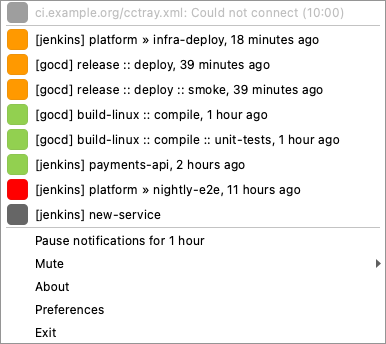
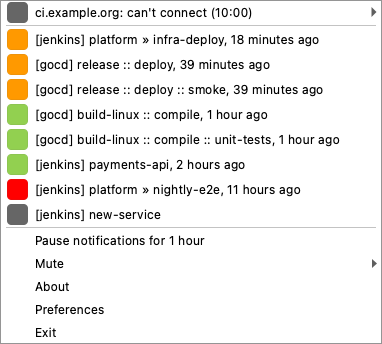
Make server error rows readable and actionable
Error rows are named after the server's prefix or host, show a short phrase
and open a submenu with the full credential-free message, Retry now and Edit
server... (TASK-61).

diff --git a/test/integration/app_menu_test.py b/test/integration/app_menu_test.py
@@ -8,7 +8,7 @@ from PySide6.QtWidgets import QWidget
 from buildnotifylib.adapters.credentials import Keystore
 from buildnotifylib.adapters.settings_store import SettingsStore
 from buildnotifylib.core.model import ServerSnapshot
-from buildnotifylib.core.ports import FetchError
+from buildnotifylib.core.ports import CannotConnect, FetchError
 from buildnotifylib.core.settings import AppSettings, ServerSettings, SortKey
 from buildnotifylib.ui.app_menu import AppMenu
 from buildnotifylib.ui.build_icons import BuildIcons
@@ -449,11 +449,13 @@ def error_menu(qtbot):
 
 
 @pytest.mark.functional
-def test_should_show_a_row_with_the_last_error_and_its_time_for_an_unavailable_server(error_menu):
+def test_should_show_an_enabled_row_with_a_short_error_and_its_time_for_an_unavailable_server(error_menu):
     app_menu = error_menu
     at = datetime.now().astimezone().replace(hour=9, minute=5)
     down = ServerSnapshot(
-        "https://user:hunter2@ci.example.com/cc.xml?token=s3cret", error=FetchError("HTTP 503 Unavailable"), error_at=at
+        "https://user:hunter2@ci.example.com/cc.xml?token=s3cret",
+        error=FetchError("HTTP 503 Unavailable", 503),
+        error_at=at,
     )
     project1 = ProjectBuilder({"name": "Project 1", "lastBuildStatus": "Success", "activity": "Sleeping"}).build()
 
@@ -461,7 +463,7 @@ def test_should_show_a_row_with_the_last_error_and_its_time_for_an_unavailable_s
 
     actions = app_menu.menu.actions()
     assert [a.text() for a in actions] == [
-        "ci.example.com/cc.xml: HTTP 503 Unavailable (09:05)",
+        "ci.example.com: HTTP 503 (09:05)",
         "",
         "Project 1",
         "",
@@ -471,7 +473,16 @@ def test_should_show_a_row_with_the_last_error_and_its_time_for_an_unavailable_s
         "Preferences",
         "Exit",
     ]
-    assert not actions[0].isEnabled()
+    assert actions[0].isEnabled()
+
+
+@pytest.mark.functional
+def test_should_name_an_error_row_after_the_server_prefix(mute_menu):
+    app_menu = mute_menu(ServerSettings(CI, prefix="jenkins"))
+
+    app_menu.update([], [ServerSnapshot(CI, error=CannotConnect("Could not connect to ci"), error_at=NOW)])
+
+    assert app_menu.menu.actions()[0].text().startswith("jenkins: can't connect (")
 
 
 @pytest.mark.functional
@@ -481,17 +492,74 @@ def test_should_date_an_error_row_from_an_earlier_day(error_menu):
 
     app_menu.update([], [ServerSnapshot("http://ci:8080/cc.xml", error=TimeoutError("Timed out"), error_at=at)])
 
-    assert app_menu.menu.actions()[0].text() == "ci:8080/cc.xml: Timed out (2026-01-02 03:04)"
+    assert app_menu.menu.actions()[0].text() == "ci:8080: timed out (2026-01-02 03:04)"
 
 
 @pytest.mark.functional
-def test_should_keep_tracebacks_out_of_the_error_row(error_menu):
+def test_should_keep_tracebacks_out_of_the_error_row_and_its_details(error_menu):
     app_menu = error_menu
     error = RuntimeError('boom\nTraceback (most recent call last):\n  File "x.py", line 1')
 
     app_menu.update([], [ServerSnapshot("http://ci/cc.xml", error=error)])
 
-    assert app_menu.menu.actions()[0].text().startswith("ci/cc.xml: boom (")
+    row = app_menu.menu.actions()[0]
+    assert row.text().startswith("ci: request failed (")
+    assert texts(row.menu())[0] == "boom"
+
+
+@pytest.mark.functional
+def test_should_list_the_full_message_a_hint_and_actions_under_an_error_row(mute_menu):
+    app_menu = mute_menu(ServerSettings(CI))
+    error = FetchError("HTTP 401 for https://user:hunter2@ci/cc.xml?token=s3cret", 401)
+
+    app_menu.update([], [ServerSnapshot(CI, error=error, error_at=NOW)])
+
+    details = app_menu.menu.actions()[0].menu()
+    assert texts(details) == [
+        "HTTP 401 for ci",
+        "Sign-in failed - check the username and token",
+        "",
+        "Retry now",
+        "Edit server...",
+    ]
+    assert not any("hunter2" in text or "s3cret" in text for text in texts(details))
+
+
+@pytest.mark.functional
+def test_should_poll_again_on_retry_now(mute_menu, qtbot):
+    app_menu = mute_menu(ServerSettings(CI))
+    app_menu.update([], [ServerSnapshot(CI, error=CannotConnect("Could not connect to ci"), error_at=NOW)])
+
+    with qtbot.waitSignal(app_menu.reload_data, timeout=1000):
+        action(app_menu.menu.actions()[0].menu(), "Retry now").trigger()
+
+
+@pytest.mark.functional
+def test_should_edit_the_unavailable_server_and_poll_again(mute_menu, qtbot, mocker):
+    app_menu = mute_menu(ServerSettings(CI, prefix="old"), ServerSettings(OTHER))
+    app_menu.update([], [ServerSnapshot(CI, error=CannotConnect("Could not connect to ci"), error_at=NOW)])
+    dialog = mocker.patch("buildnotifylib.ui.app_menu.ServerConfigurationDialog")
+    dialog.return_value.open.return_value = ServerSettings(CI, prefix="new")
+
+    with qtbot.waitSignal(app_menu.reload_data, timeout=1000):
+        action(app_menu.menu.actions()[0].menu(), "Edit server...").trigger()
+
+    edited = dialog.call_args.args[0]
+    assert (edited.url, edited.prefix) == (CI, "old")
+    assert [(s.url, s.prefix) for s in reopened(app_menu).servers] == [(CI, "new"), (OTHER, "")]
+
+
+@pytest.mark.functional
+def test_should_not_let_an_edit_duplicate_another_server(mute_menu, qtbot, mocker):
+    app_menu = mute_menu(ServerSettings(CI), ServerSettings(OTHER))
+    app_menu.update([], [ServerSnapshot(CI, error=CannotConnect("Could not connect to ci"), error_at=NOW)])
+    dialog = mocker.patch("buildnotifylib.ui.app_menu.ServerConfigurationDialog")
+    dialog.return_value.open.return_value = ServerSettings(OTHER)
+
+    with qtbot.assertNotEmitted(app_menu.reload_data):
+        action(app_menu.menu.actions()[0].menu(), "Edit server...").trigger()
+
+    assert [s.url for s in reopened(app_menu).servers] == [CI, OTHER]
 
 
 CI = "http://ci/cc.xml"

diff --git a/buildnotifylib/ui/app_menu.py b/buildnotifylib/ui/app_menu.py
@@ -11,7 +11,7 @@ from PySide6.QtWidgets import QApplication, QMenu, QMessageBox, QWidget
 from buildnotifylib.adapters.settings_store import SettingsStore
 from buildnotifylib.core import humanize
 from buildnotifylib.core.diff import key
-from buildnotifylib.core.errors import server_label, summarize
+from buildnotifylib.core.errors import details, host, phrase, server_label
 from buildnotifylib.core.model import Project, ServerSnapshot
 from buildnotifylib.core.mute import (
     Clock,
@@ -22,6 +22,7 @@ from buildnotifylib.core.mute import (
     system_clock,
     toggle_project,
     toggle_server,
+    with_server,
 )
 from buildnotifylib.core.ports import Connection
 from buildnotifylib.core.settings import AppSettings, ServerSettings, SortKey
@@ -51,6 +52,7 @@ class AppMenu(QtCore.QObject):
         self.projects: list[Project] = []
         self.unavailable: Sequence[ServerSnapshot] = ()
         self.mute_menu: QMenu | None = None
+        self.error_menus: list[QMenu] = []
         self.create_default_menu_items()
 
     def update(self, projects: list[Project], unavailable: Sequence[ServerSnapshot] = ()):
@@ -76,20 +78,35 @@ class AppMenu(QtCore.QObject):
         return True, build_time.timestamp()
 
     def create_error_items(self, servers: Sequence[ServerSnapshot]):
-        icon = self.build_icons.for_status(None)
-        for server in servers:
-            action = self.menu.addAction(icon, self.error_label(server))
-            action.setIconVisibleInMenu(True)
-            action.setEnabled(False)
+        for menu in self.error_menus:
+            menu.deleteLater()
+        self.error_menus = [self.create_error_menu(server) for server in servers]
         if servers:
             self.menu.addSeparator()
 
+    def create_error_menu(self, snapshot: ServerSnapshot) -> QMenu:
+        server = self.configured(snapshot.url)
+        menu = QMenu(self.error_label(snapshot, server), self.menu)
+        menu.setIcon(self.build_icons.for_status(None))
+        for line in details(snapshot.error) if snapshot.error is not None else ["Unavailable"]:
+            menu.addAction(line).setEnabled(False)
+        menu.addSeparator()
+        menu.addAction("Retry now").triggered.connect(self.reload_data)
+        if server is not None:
+            menu.addAction("Edit server...").triggered.connect(partial(self.edit_server_clicked, server))
+        self.menu.addMenu(menu).setIconVisibleInMenu(True)
+        return menu
+
+    def configured(self, url: str) -> ServerSettings | None:
+        return next((server for server in self.store.settings.servers if server.url == url), None)
+
     @staticmethod
-    def error_label(server: ServerSnapshot) -> str:
-        summary = summarize(server.error) if server.error is not None else "Unavailable"
-        at = (server.error_at or datetime.now()).astimezone()
+    def error_label(snapshot: ServerSnapshot, server: ServerSettings | None) -> str:
+        name = (server.prefix if server is not None else "") or host(snapshot.url) or "server"
+        summary = phrase(snapshot.error) if snapshot.error is not None else "unavailable"
+        at = (snapshot.error_at or datetime.now()).astimezone()
         when = at.strftime("%H:%M" if at.date() == datetime.now().astimezone().date() else "%Y-%m-%d %H:%M")
-        return f"{server_label(server.url)}: {summary} ({when})"
+        return f"{name}: {summary} ({when})"
 
     def create_default_menu_items(self):
         if self.store.settings.servers:
@@ -170,16 +187,24 @@ class AppMenu(QtCore.QObject):
         self.add_server_clicked()
 
     def add_server_clicked(self) -> None:
-        server = self.open_server_dialog()
+        server = self.open_server_dialog(None)
         settings = self.store.settings
         if server is None or server.url in [s.url for s in settings.servers]:
             return
         self.change(replace(settings, servers=[*settings.servers, server]))
         self.reload_data.emit()
 
-    def open_server_dialog(self) -> ServerSettings | None:
+    def edit_server_clicked(self, server: ServerSettings) -> None:
+        edited = self.open_server_dialog(server)
+        settings = self.store.settings
+        if edited is None or (edited.url != server.url and self.configured(edited.url) is not None):
+            return
+        self.change(with_server(settings, server.url, lambda _: edited))
+        self.reload_data.emit()
+
+    def open_server_dialog(self, server: ServerSettings | None) -> ServerSettings | None:
         dialog = ServerConfigurationDialog(
-            None,
+            server,
             self.store.settings.timeout_seconds,
             self.connection,
             self.menu,

diff --git a/scripts/screenshots.py b/scripts/screenshots.py
@@ -22,6 +22,7 @@ from buildnotifylib.adapters.http import HttpConnection  # noqa: E402
 from buildnotifylib.core import cctray  # noqa: E402
 from buildnotifylib.core.aggregate import OverallIntegrationStatus  # noqa: E402
 from buildnotifylib.core.model import ServerSnapshot  # noqa: E402
+from buildnotifylib.core.ports import CannotConnect  # noqa: E402
 from buildnotifylib.core.settings import AppSettings, ServerSettings, SourceKind  # noqa: E402
 from buildnotifylib.ui import app_menu  # noqa: E402
 from buildnotifylib.ui.build_icons import TRAY_SIZE, BuildIcons  # noqa: E402
@@ -76,7 +77,7 @@ def snapshot(server: ServerSettings, feed: str) -> ServerSnapshot:
 
 
 def status() -> OverallIntegrationStatus:
-    offline = ServerSnapshot(OFFLINE.url, error=ConnectionError("Could not connect"), error_at=NOW)
+    offline = ServerSnapshot(OFFLINE.url, error=CannotConnect("Could not connect to ci.example.org"), error_at=NOW)
     return OverallIntegrationStatus([snapshot(JENKINS, "jenkins.xml"), snapshot(GOCD, "gocd.xml"), offline])
 
 

diff --git a/test/integration/appui_test.py b/test/integration/appui_test.py
@@ -52,7 +52,7 @@ def test_should_list_unavailable_servers_in_the_menu(qtbot):
 
     widget.update_projects(OverallIntegrationStatus([down, ServerSnapshot("http://up/cc.xml")]))
 
-    assert widget.app_menu.menu.actions()[0].text().startswith("ci/cc.xml: Timed out (")
+    assert widget.app_menu.menu.actions()[0].text().startswith("ci: timed out (")
 
 
 def test_should_hide_tray_when_app_is_quitting(qtbot, qapp):

diff --git a/docs/usage.md b/docs/usage.md
@@ -71,7 +71,7 @@ On Windows, `cmd.exe` has no quoting that makes `&`, `|`, `^` and `%` safe, so a
 3. All projects in the configured CI servers contribute to the overall build status which is displayed in the tray.
 4. The tray tooltip lists failing projects, such as `2 failing: api, web`, above the last checked time.
 5. Clicking on any project in the tray menu would take you to the project page on the CI server.
-6. A server that can't be reached gets a greyed-out row at the top of the menu with its last error and the time it happened, such as `ci.example.org/cctray.xml: Could not connect (10:00)`. Its projects from the last successful fetch stay in the list.
+6. A server that can't be reached gets a row at the top of the menu with its menu prefix (or its host), a short reason and the time it happened, such as `jenkins: can't connect (10:00)` or `ci.example.org: sign-in failed (10:00)`. The row opens a submenu with the full error, a hint when there is one, `Retry now`, which checks every server again, and `Edit server...`, which opens the server dialog. Its projects from the last successful fetch stay in the list.
 
 ![Tray menu](images/projectlist.png)
 
